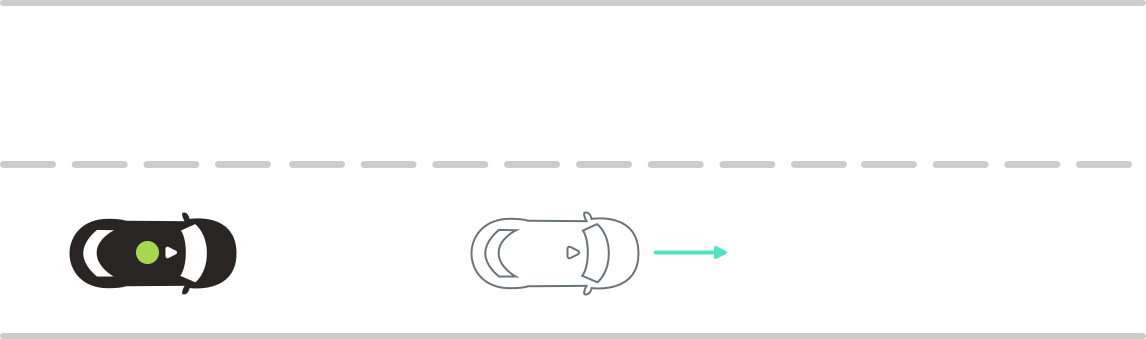
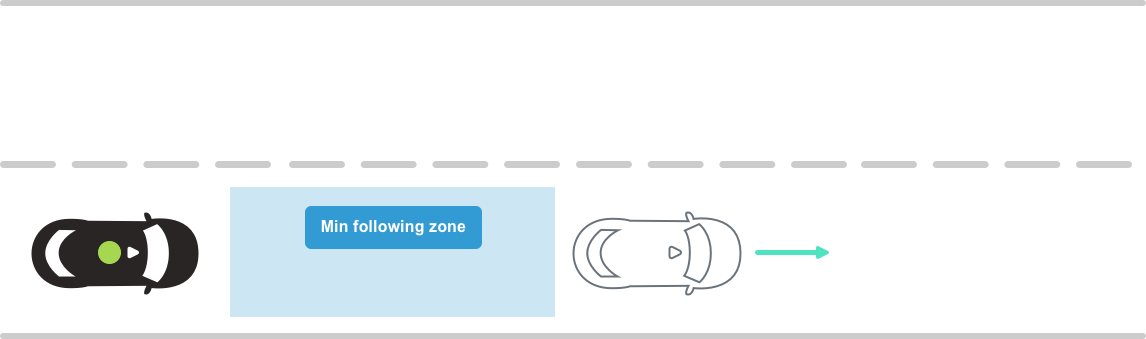
Updated CF images

Changed region(s): [[0.0, 0.531, 0.733, 0.944]]

diff --git a/docs/scenarios/car-following.md b/docs/scenarios/car-following.md
@@ -9,7 +9,7 @@ Work In Progress
 
 
 ## Follow lead vehicle
-**OAS-CF-01**
+**CF-01**
 
 Ego follows lead vehicle that is going **X** speed
 
@@ -19,7 +19,7 @@ Ego follows lead vehicle that is going **X** speed
 
 
 ## Follow lead vehicle that suddenly stops
-**OAS-CF-02**
+**CF-02**
 
 Ego follows lead vehicle that is going **X** speed that suddenly stops
 
@@ -31,7 +31,7 @@ Ego follows lead vehicle that is going **X** speed that suddenly stops
 
 
 ## Follow lead vehicle that is stopping and going
-**OAS-CF-03**
+**CF-03**
 
 Ego follows lead vehicle that is stopping and going
 
@@ -41,18 +41,20 @@ Ego follows lead vehicle that is stopping and going
 |  B  | ![ACC with stopping and going](./images/CF-03-B.png) | **Scenario** <br> Lead vehicle comes to a stop. <br><br> **Expected Result** <br> Ego stops behind lead vehicle.  |
 |  C  | ![ACC with stopping and going](./images/CF-03-C.png) | **Scenario** <br> Lead vehicle starts driving again, stopping and going periodically. <br><br> **Expected Result** <br> Ego follows lead vehicle while maintaining minimum 4 second following distance, never exceeds speed limit (even if the lead vehicle does,) and stops behind lead vehicle.  |
 
+
 ## Lead vehicle cuts in
-**OAS-CF-04**
+**CF-04**
 
 A secondary vehicle cuts in ahead of Ego
 
 |    |                                    |          |
 | -- | ---------------------------------- | -------- |
-|  A  | ![Vehicle cut in](./images/CF-04-A.png) | **Scenario** <br> Secondary vehicle cuts in ahead of Ego. <br><br> **Expected Result** <br> Ego slows down enough to allow vehicle to cut in and then follows lead vehicle.  |
+|  A  | ![Vehicle cut in](./images/CF-04-A.png) | **Scenario** <br> Secondary vehicle cuts in ahead of Ego inside the safe following distance. <br><br> **Expected Result** <br> Ego slows down and then follows lead vehicle.  |
 |  B  | ![Vehicle cut in](./images/CF-04-B.png) | **Scenario complete 🎉**  |
 
+
 ## Lead vehicle cuts out
-**OAS-CF-05**
+**CF-05**
 
 Lead vehicle cuts out of Ego's lane of travel
 
@@ -62,8 +64,9 @@ Lead vehicle cuts out of Ego's lane of travel
 |  B  | ![Vehicle cut out](./images/CF-05-B.png) | **Scenario** <br> Lead vehicle cuts out of Ego's lane of travel. <br><br> **Expected Result** <br> Ego continues traveling in lane of travel.  |
 |  C  | ![Vehicle cut out](./images/CF-05-C.png) | **Scenario complete 🎉**  |
 
+
 ## Lead vehicle breaks speed limit
-**OAS-CF-06**
+**CF-06**
 
 Lead vehicle speeds away and breaks speed limit
 
